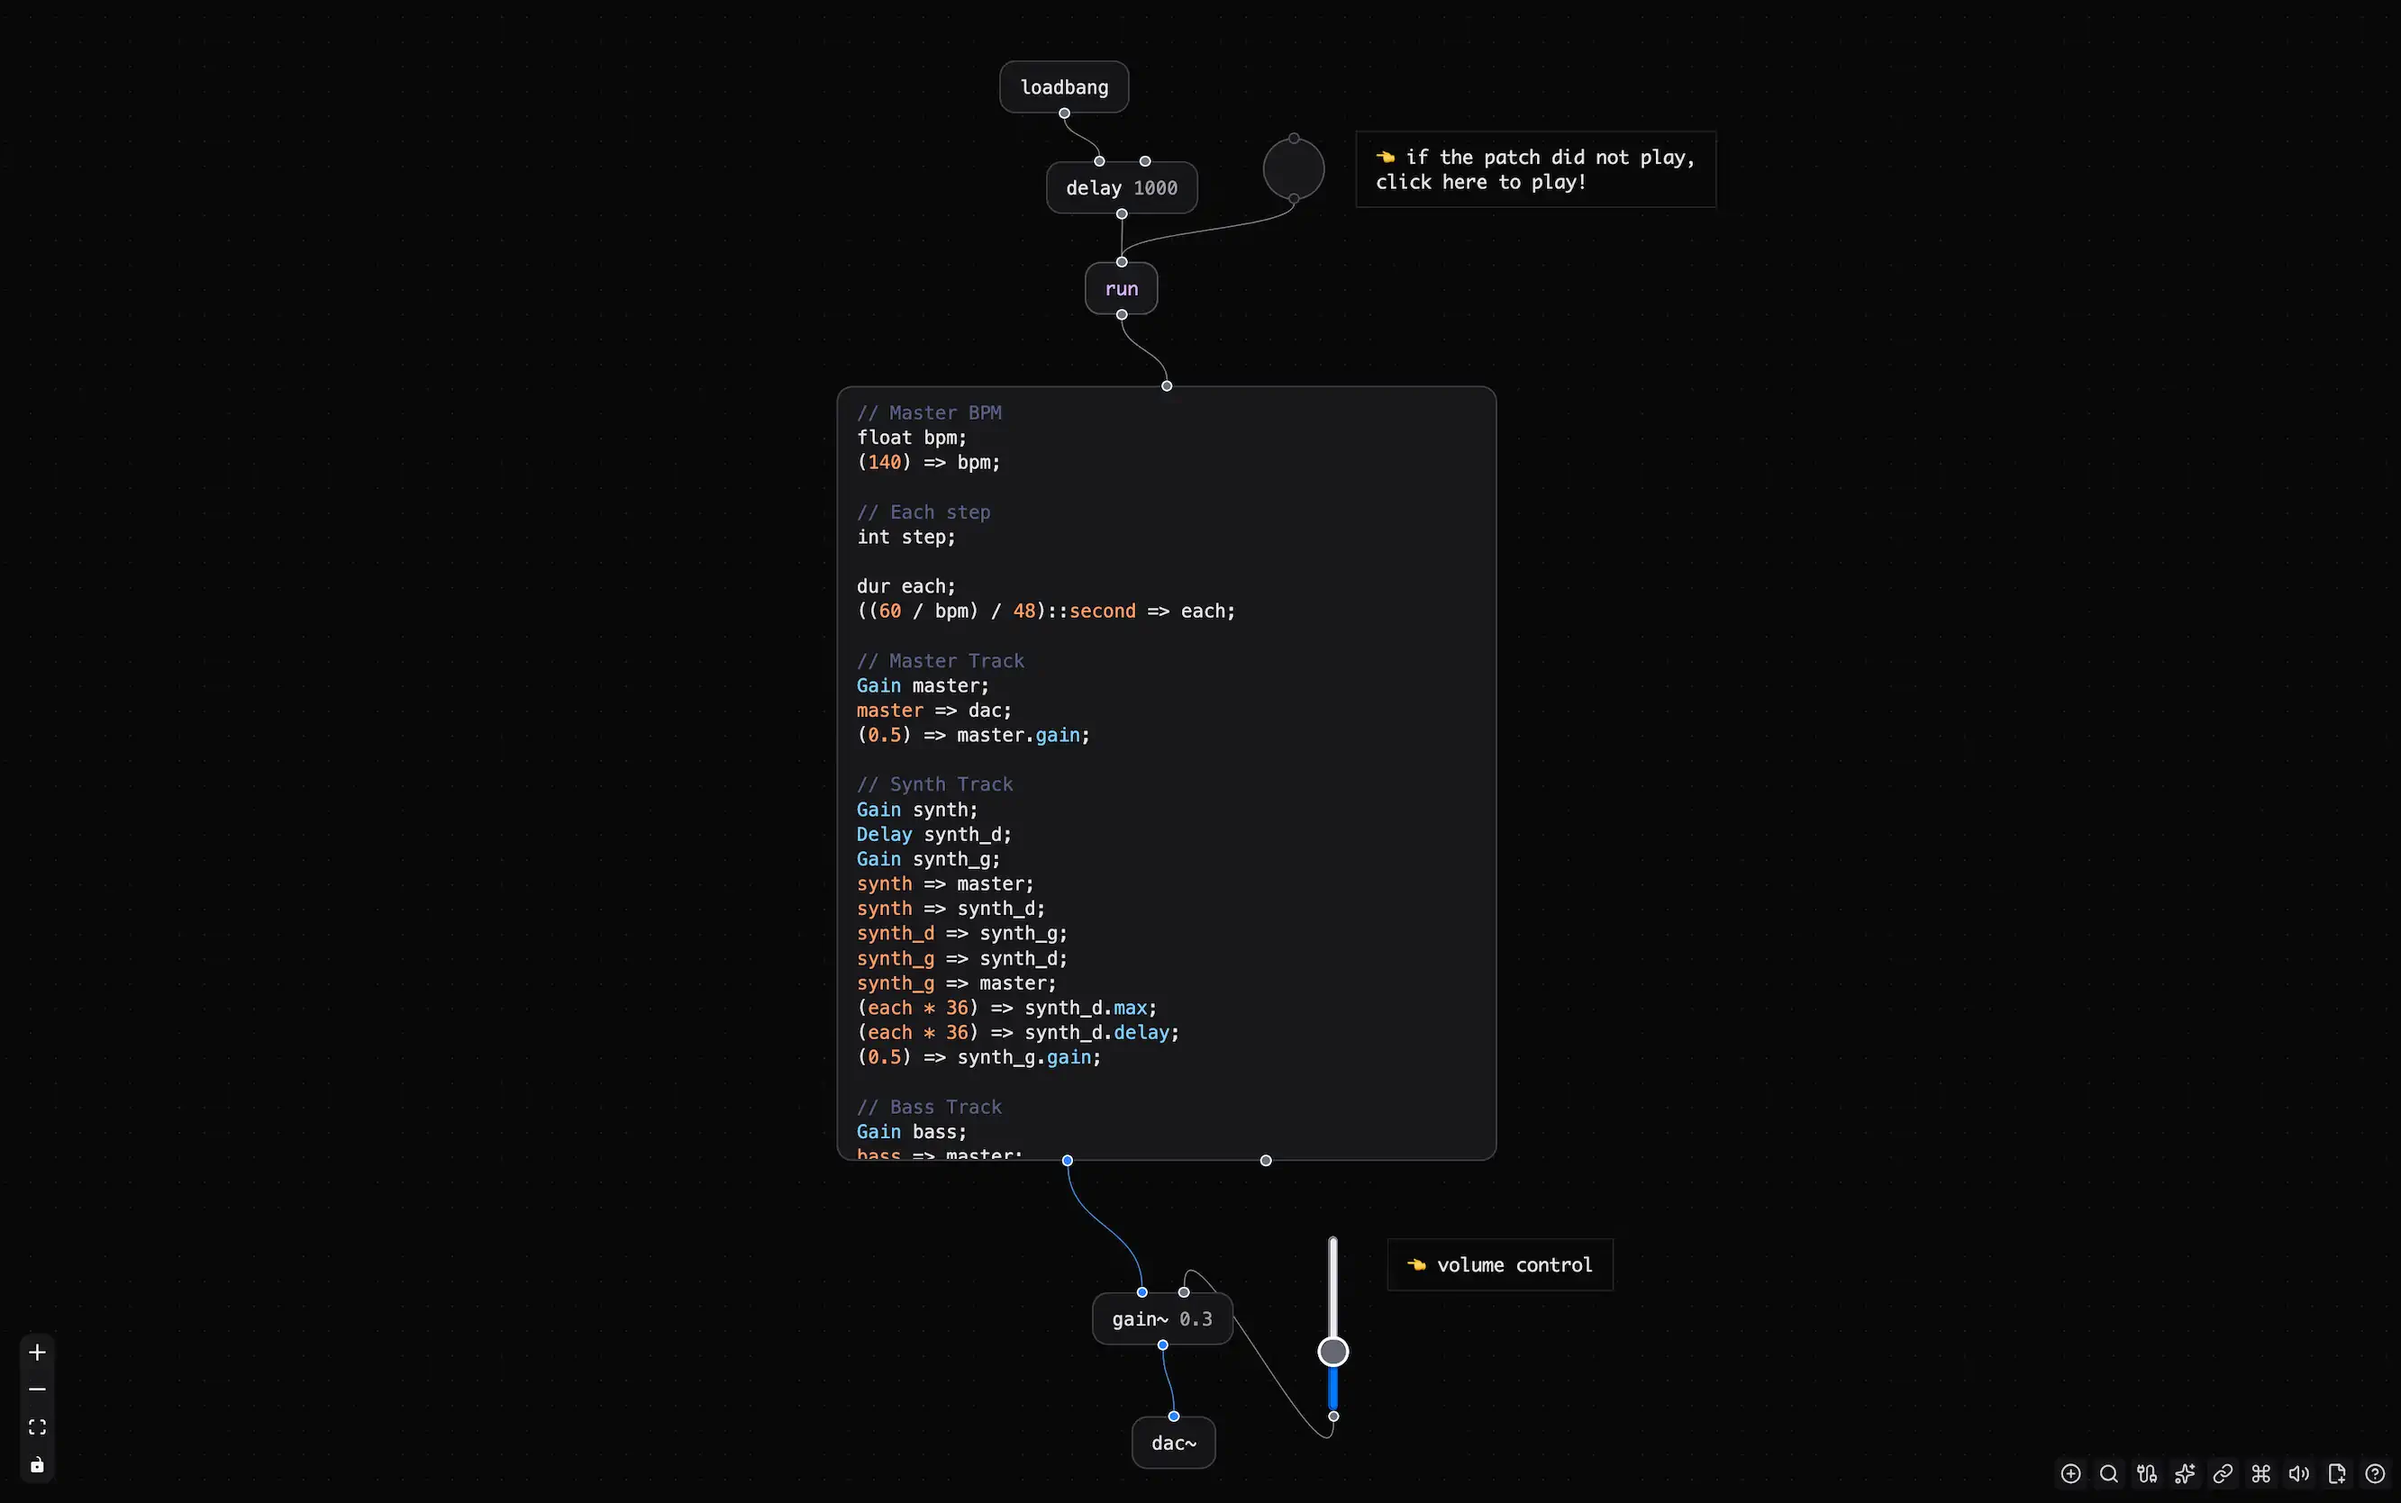
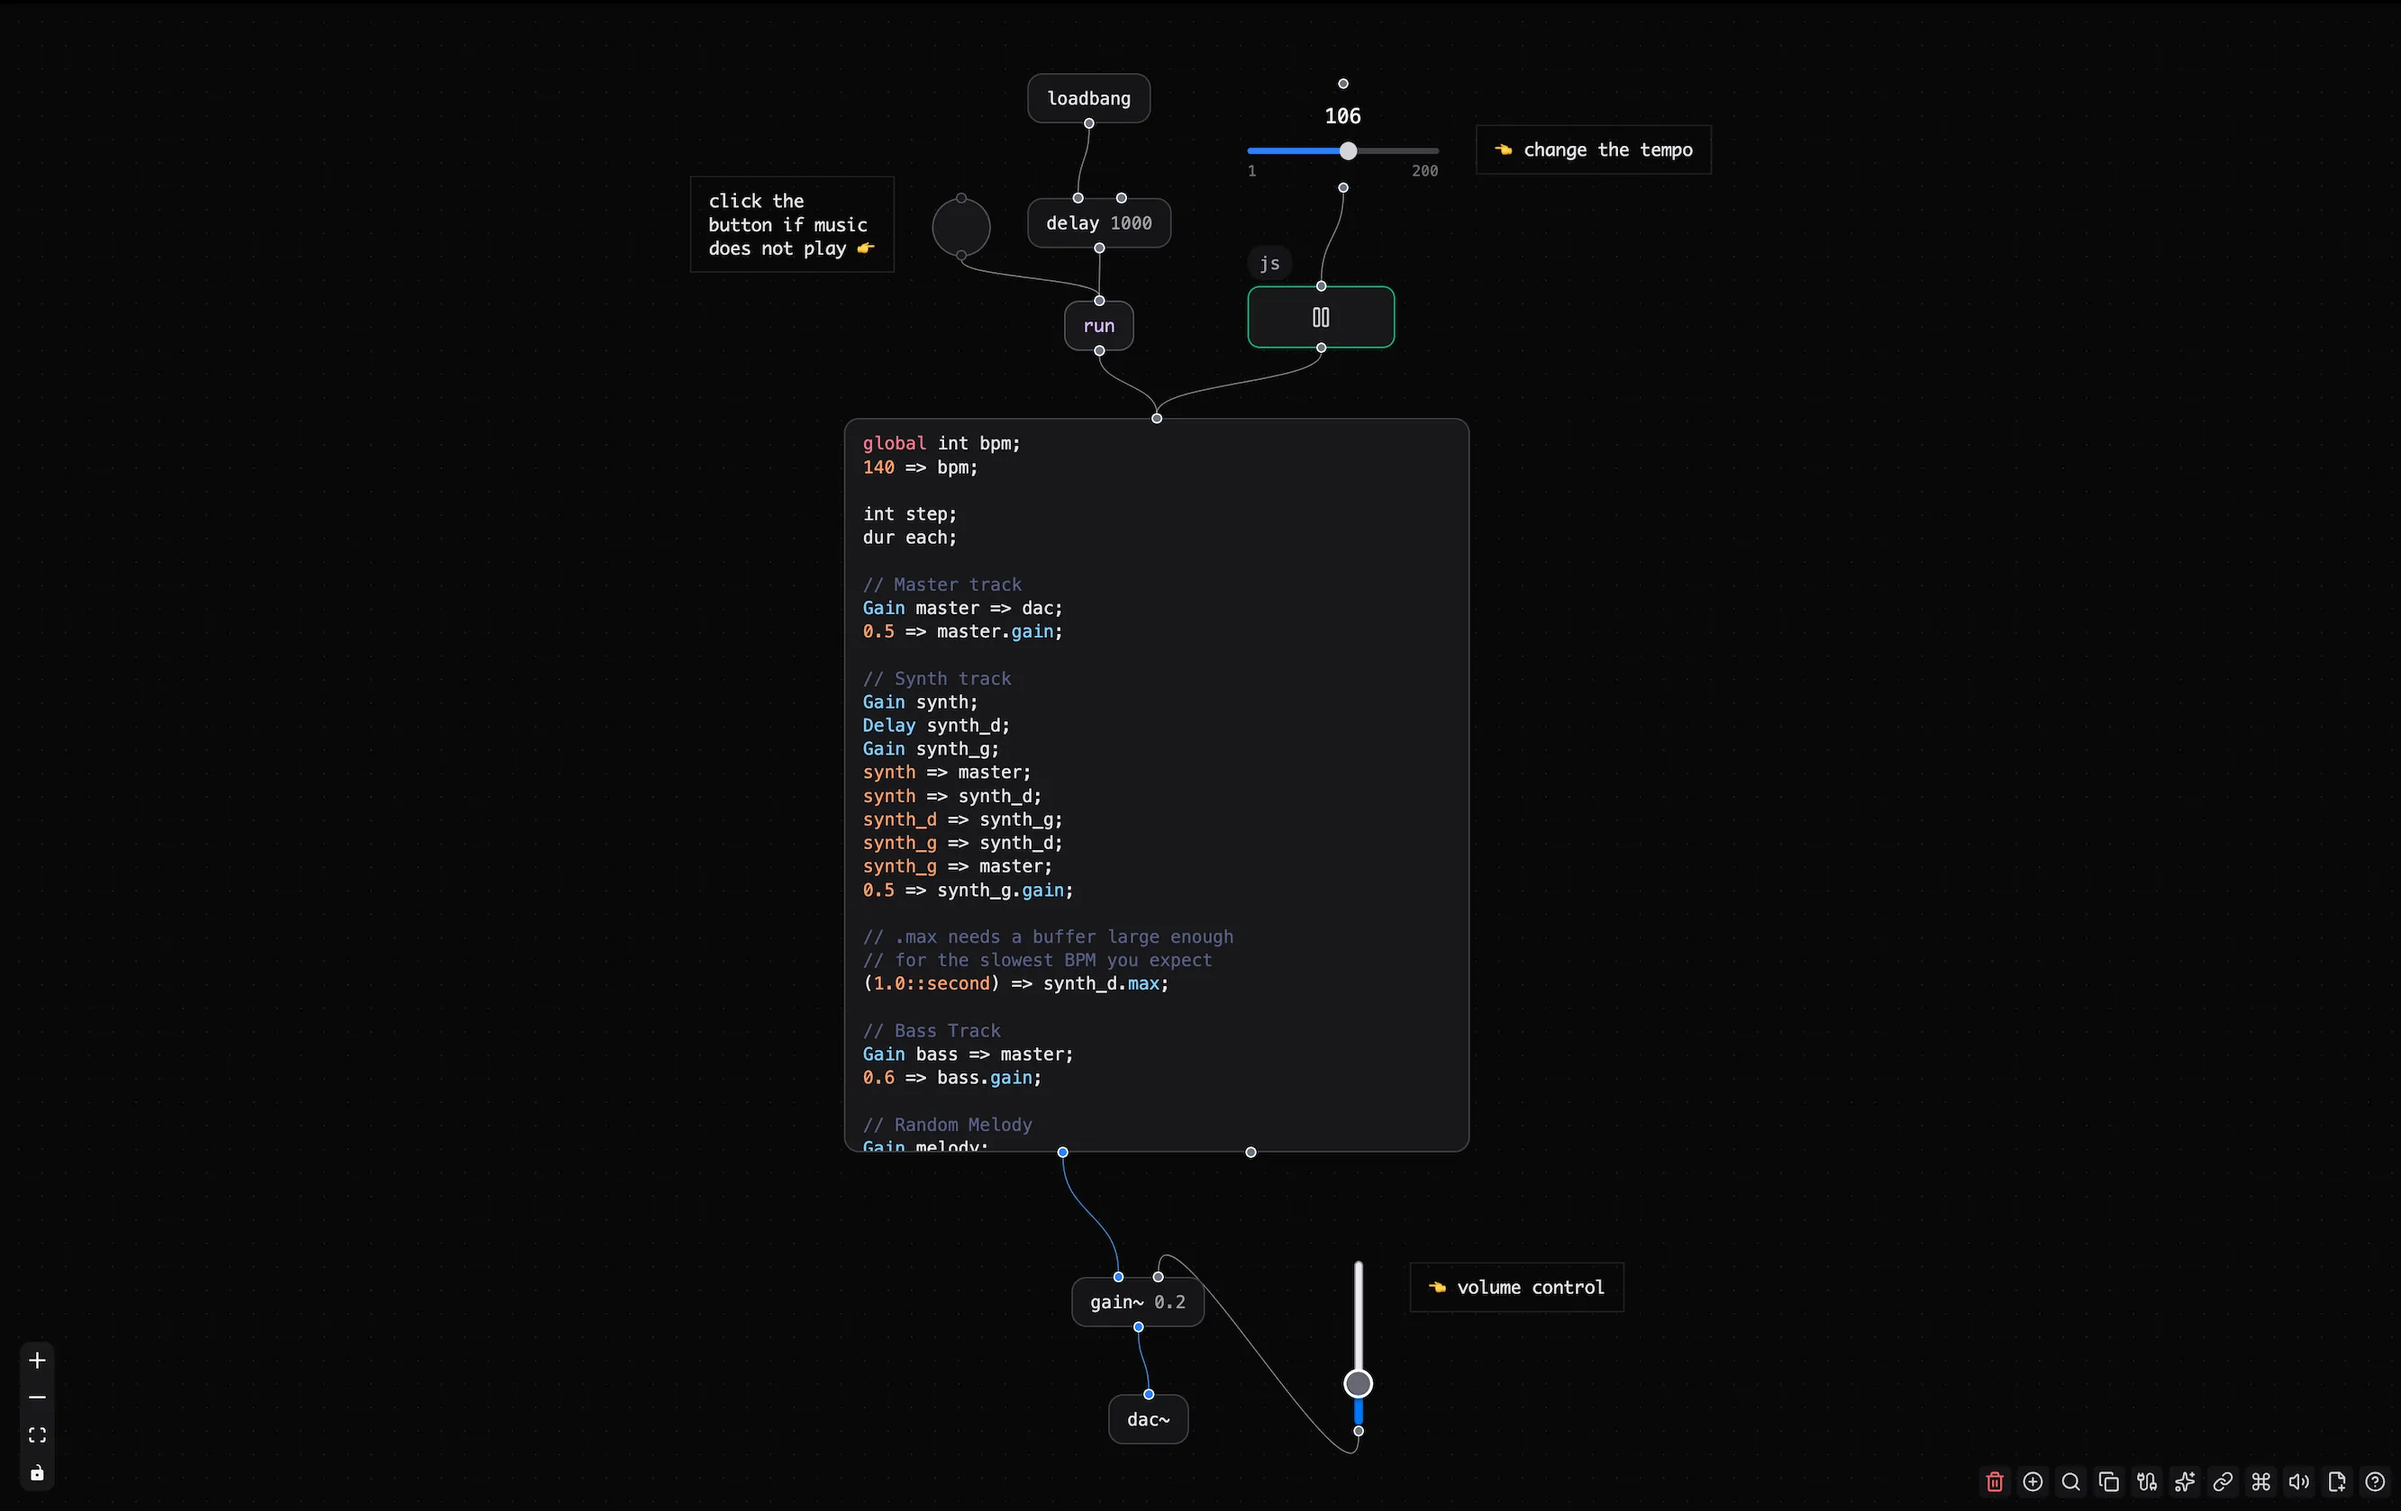
demo/chuck: add bpm control to @dtinth chuck patch

diff --git a/README.md b/README.md
@@ -901,7 +901,7 @@ Try out my [example assembly patch](https://patchies.app/?id=6pyirxuw3cqvwhg) to
 
 <img src="./docs/images/chuck-demo.webp" alt="Patchies.app chuck demo" width="700">
 
-> ✨ Try this patch out [in the app](https://patchies.app/?id=3uwpeb3glcr4usz)! This is from @dtinth's [ChucK experiments](https://dt.in.th/ChucKSong4).
+> ✨ Try this patch out [in the app](https://patchies.app/?id=wkkf6654sa5mqt9)! This is from @dtinth's [ChucK experiments](https://dt.in.th/ChucKSong4).
 
 - [ChucK](https://chuck.cs.princeton.edu) is a programming language for real-time sound synthesis and music creation.
 - Great for algorithmic composition and sound design.
@@ -921,7 +921,8 @@ Try out my [example assembly patch](https://patchies.app/?id=6pyirxuw3cqvwhg) to
   - `clearAll`: clears all shreds
   - `{type: 'replace', code: string}`: replaces the most recent shred with the given code
 - Messages: global variables and events
-  - Try out [this patch](https://patchies.app/?id=pztihv6nasqpfxf) to see how global variables work in ChucK. This makes it possible to control ChucK programs with messages. You need to declare it with `global` and make sure the dependent variables are re-computed in a loop.
+  - The [above demo patch](https://patchies.app/?id=wkkf6654sa5mqt9) shows how global variables lets you control ChucK programs with Patchies messages.
+  - To use global variables, declare your variable with `global` (e.g. `global int bpm`) and make sure all dependent variables are re-computed in a loop.
   - `{type: 'set', key: string, value: any}`: sets a chuck global value / array (can be string, int or float)
     - Make sure your variable types match! If you try to pass an int (e.g. 140) to a `global bpm float` of `140.0` it would not work. Try `setInt` or `setFloat` if there is an issue.
   - `{type: 'setInt', key: string, value: any}`: sets a chuck global integer value / array
